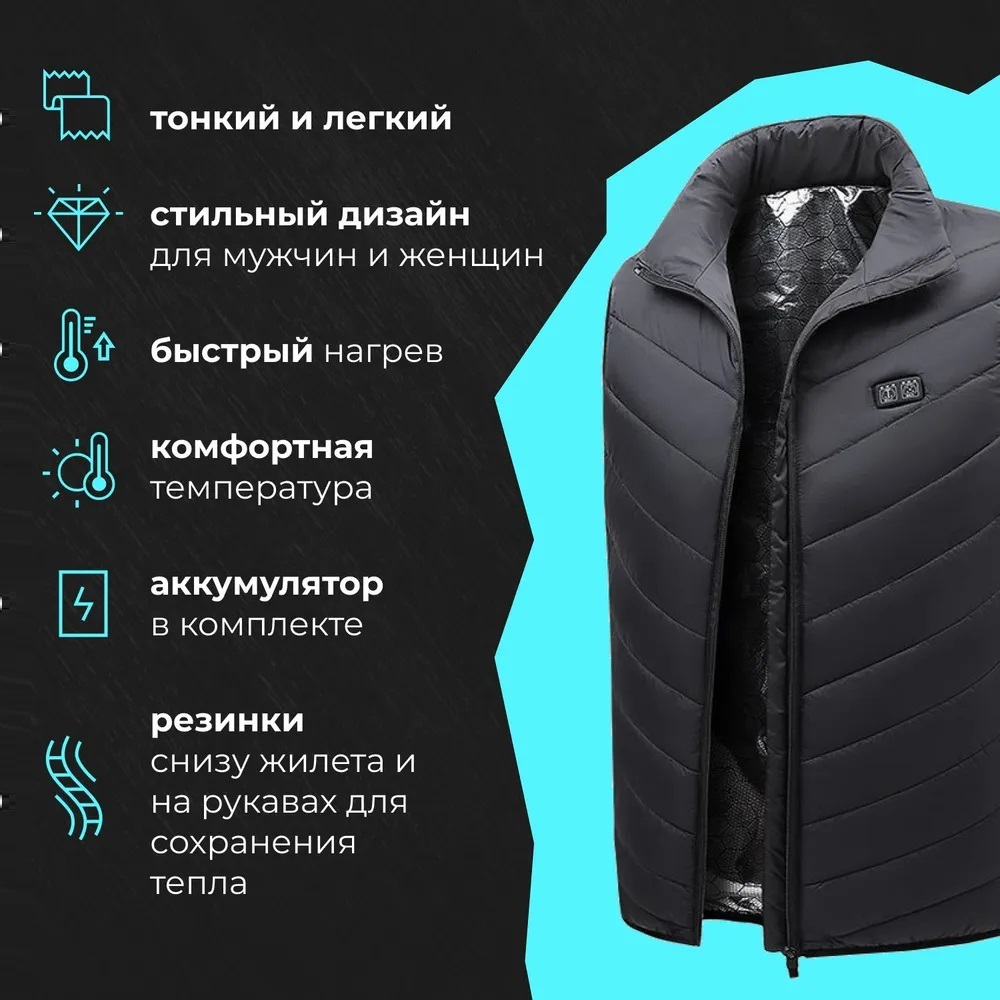
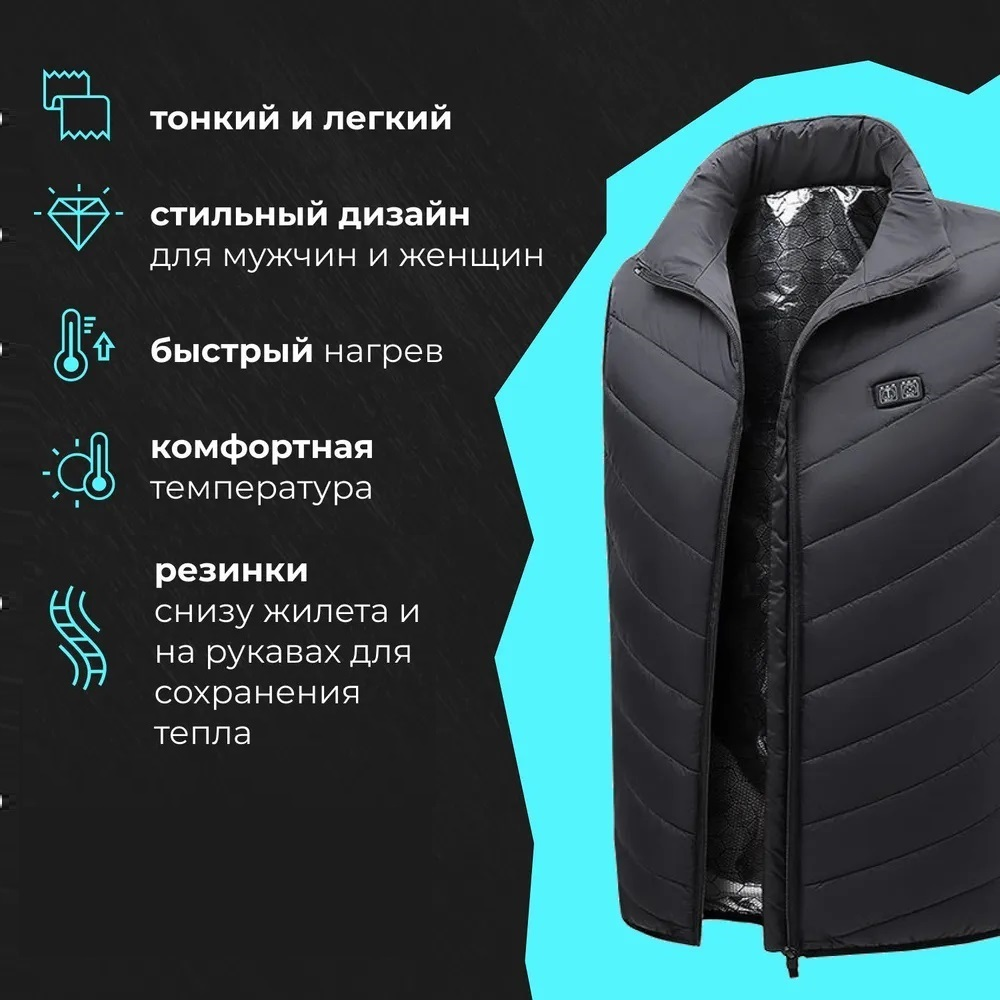
remove powerbank

Changed region(s): [[0.155, 0.558, 0.434, 0.899], [0.031, 0.558, 0.124, 0.682], [0.031, 0.744, 0.124, 0.837]]

diff --git a/index.html b/index.html
@@ -4,7 +4,7 @@
 <head>
   <meta charset="utf-8">
   <meta name="viewport" content="width=480">
-  <title>Термоперчатки</title>
+  <title>Жилет с подогревом</title>
   <link rel="stylesheet" href="css/reset.css">
   <link rel="stylesheet" href="css/owl.carousel.min.css">
   <link rel="stylesheet" href="css/styles.css">
@@ -38,7 +38,6 @@
     <header class="offer_section offer3">
       <h1 class="main_title">ПРЕДСЕЗОННАЯ СКИДКА -50%</h1>
       <div class="info_block">
-        <!-- <p class="subtitle">45в1 Набор инструментов</p> -->
         <div class="discount"><b> 50% скидка</b></div>
         <img src="img/main.jpg" alt="">
       </div>
@@ -81,7 +80,7 @@
       </p>
       <a href="index.html#order_form" class="button animated">
         Заказать сейчас</a>
-      <div class="products_count">Осталось <b>7</b> пуховиков по скидке</div>
+      <div class="products_count">Осталось <b>7</b> жилетов по скидке</div>
     </header>
     <section class="description_section">
       <h2 class="title"><span> Хит продаж</span>зима 2024</h2>
@@ -292,15 +291,15 @@
       <div class="benefits_block clearfix">
         <div class="benefit_item">
           <img style="height: 60px;" src="img/g2.jpg" alt="">
-          <p>8 часов работы</p>
+          <p>до 10 часов работы</p>
         </div>
         <div class="benefit_item">
           <img style="height: 60px;" src="img/g5.jpg" alt="">
-          <p>3 режима нагрева</p>
+          <p>3 комфортных режима нагрева</p>
         </div>
         <div class="benefit_item">
           <img style="height: 60px;" src="img/g3.jpg" alt="">
-          <p>Быстрая зарядка</p>
+          <p>Для мужчин и женщин</p>
         </div>
       </div>
       <p style="
